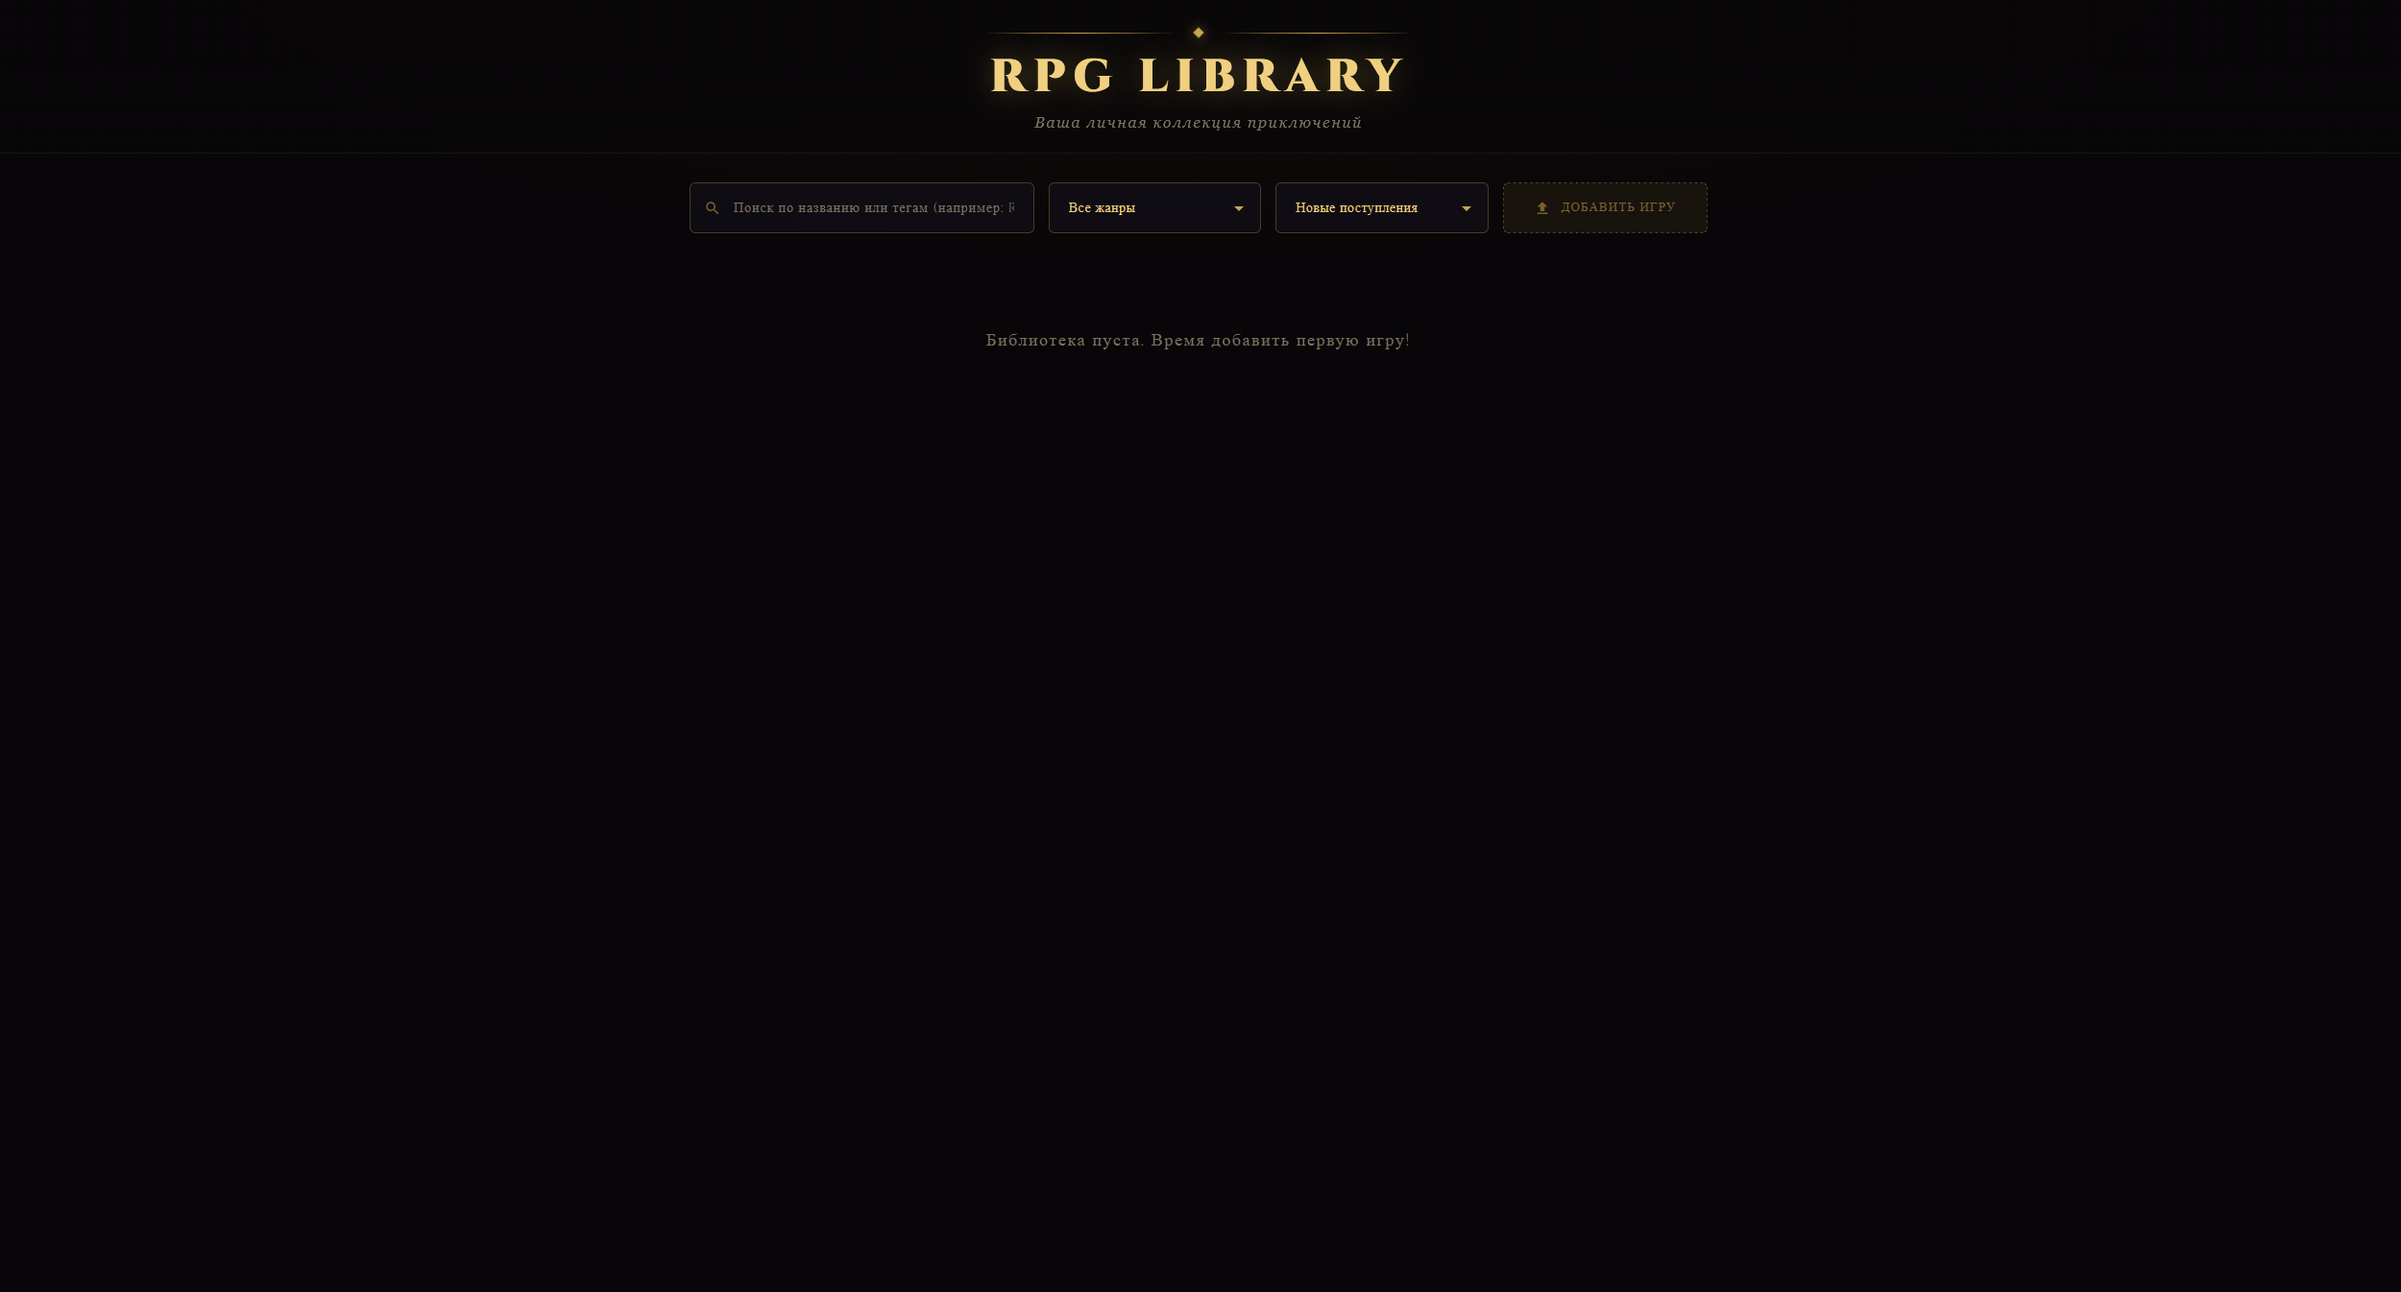
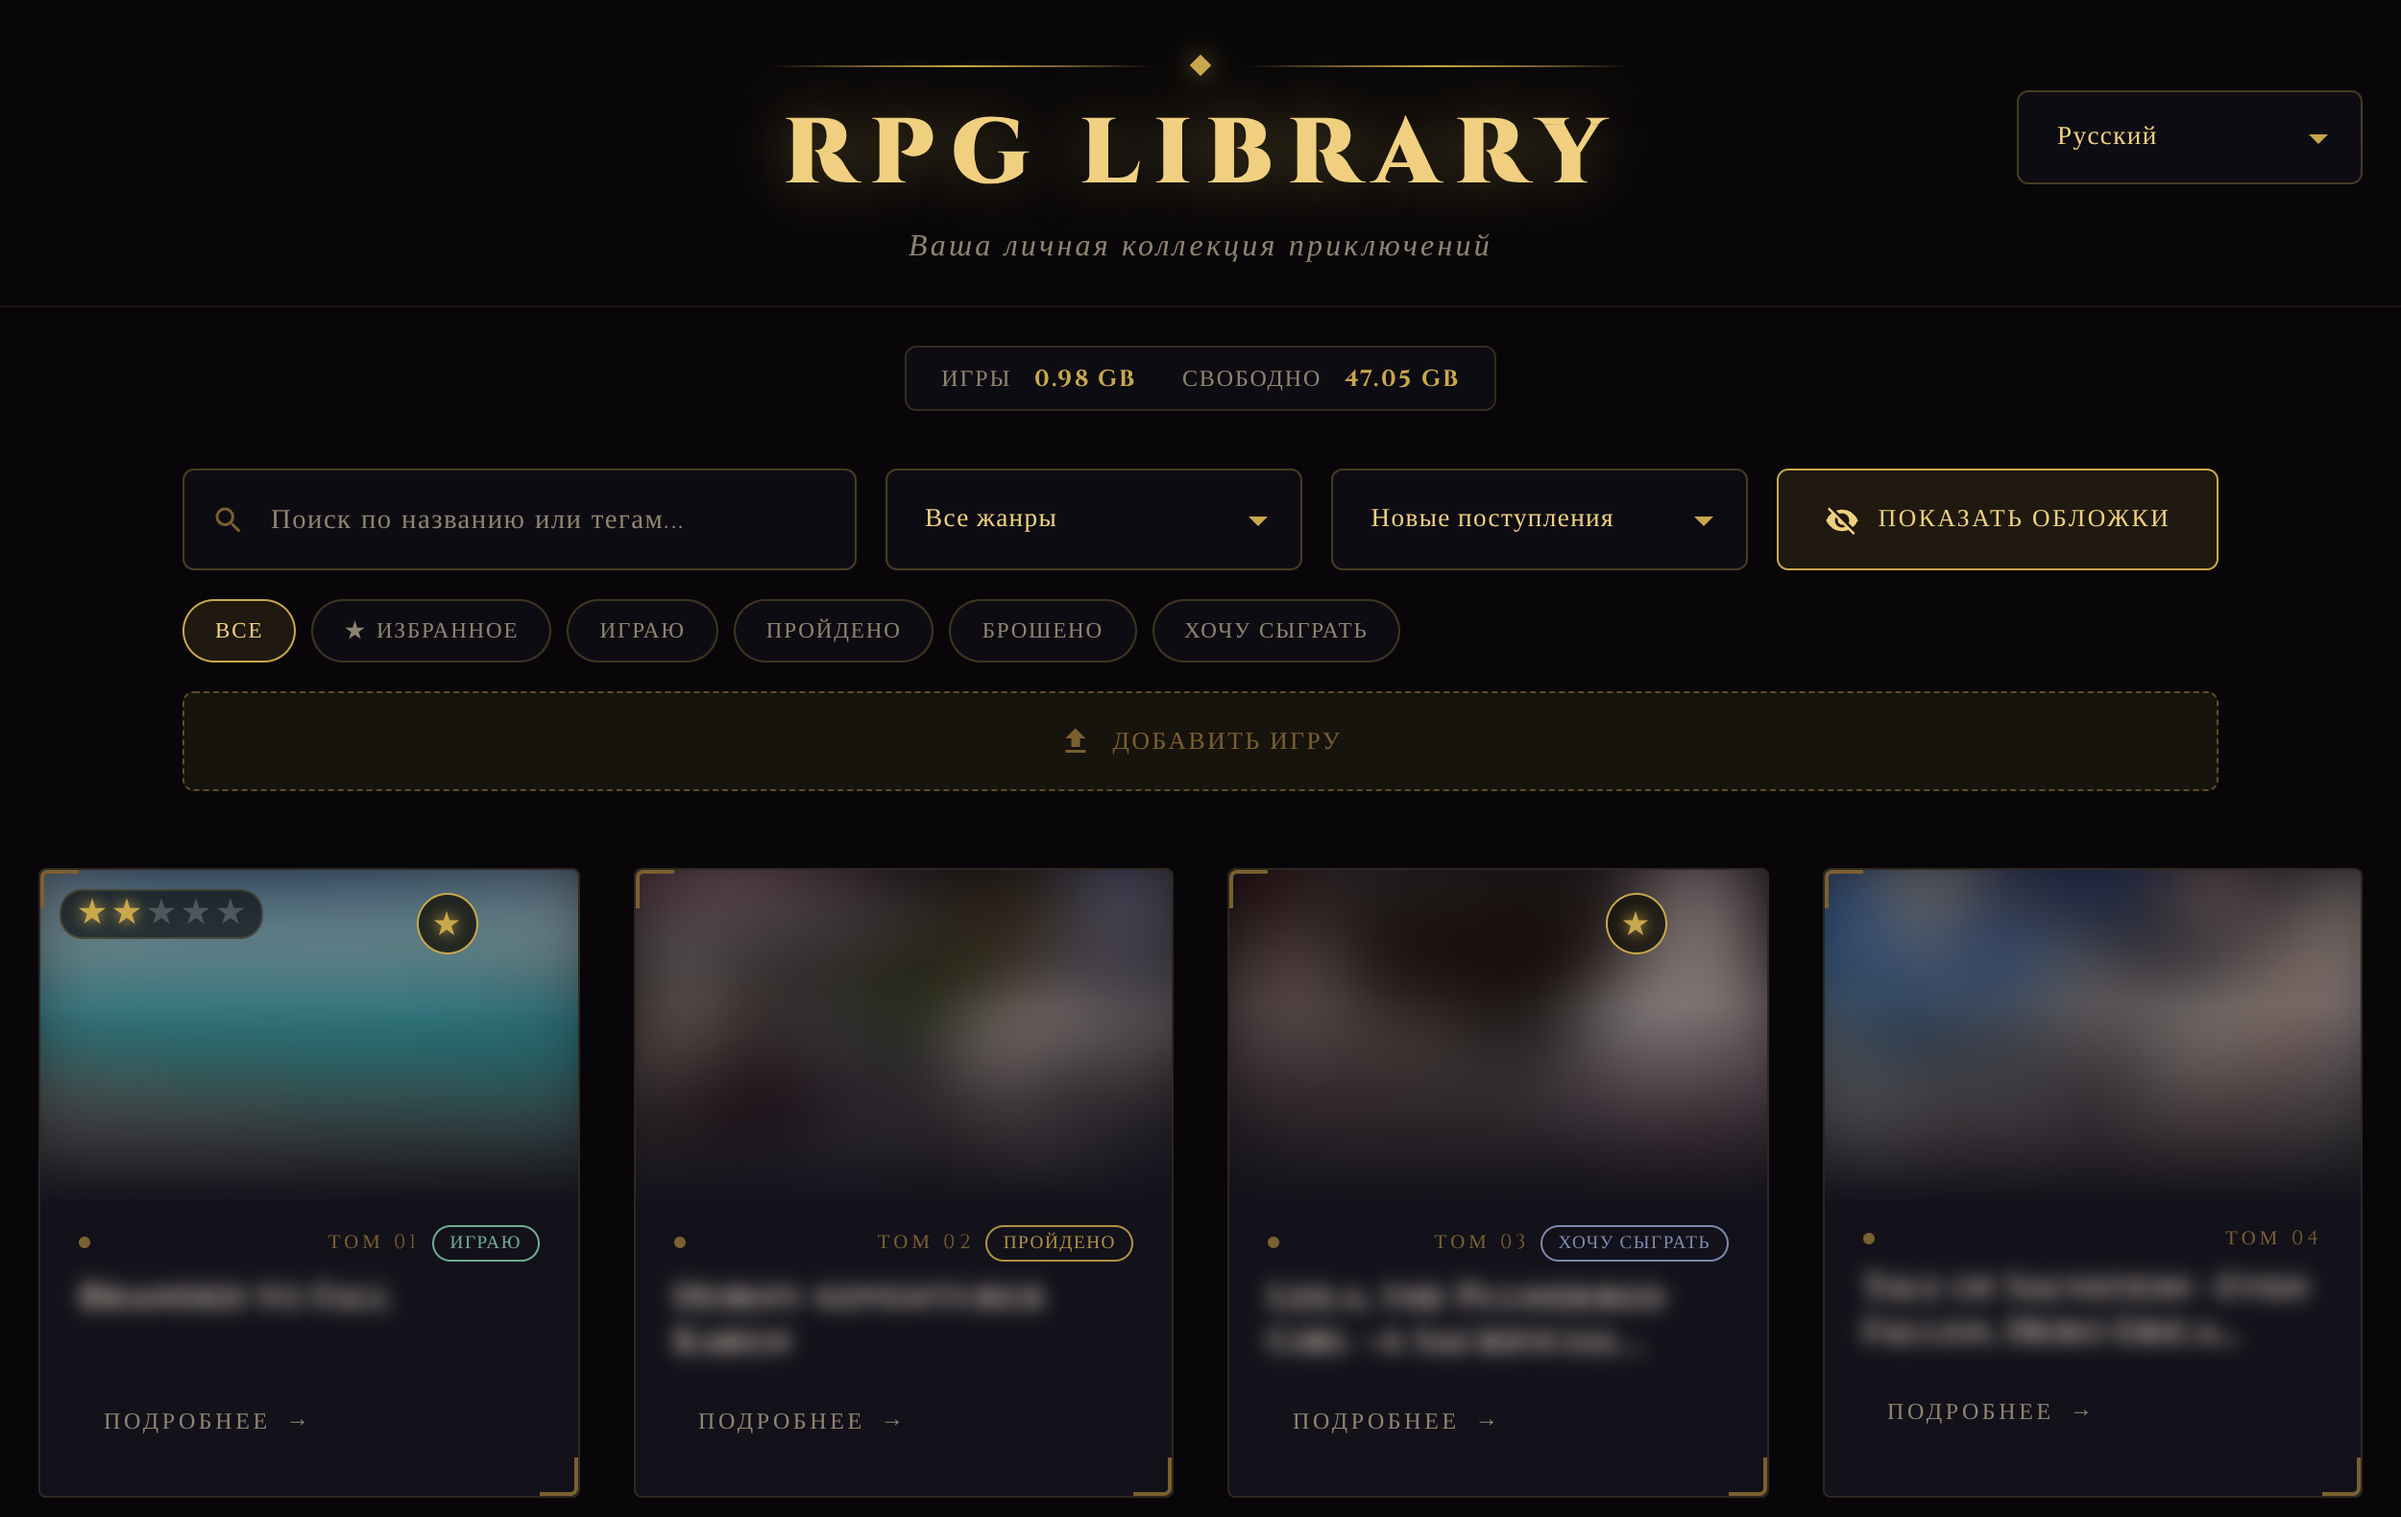
docs: свежий скриншот интерфейса для README
Старый снимок был сделан до статусов, избранного, ряда фильтров и кнопки
скрытия обложек. Новый снят на текущей сборке: обложки размыты встроенной
кнопкой, названия игр скрыты тем же приёмом. Статусы на карточках проставлены
на время съёмки и возвращены к исходным значениям.

diff --git a/README.ru.md b/README.ru.md
@@ -14,7 +14,7 @@
 
 Локальный веб-сервис для каталогизации, хранения и запуска браузерных RPG Maker игр (MV/MZ) напрямую с вашего домашнего сервера. Проект спроектирован с упором на производительность, отказоустойчивость I/O операций и умный автоматический сбор метаданных.
 
-![Скриншот интерфейса](/rest/img/Example.png)
+![Скриншот интерфейса — обложки скрыты встроенной кнопкой](/rest/img/Example.png)
 
 ## ✨ Ключевые возможности
 

diff --git a/README.de.md b/README.de.md
@@ -14,7 +14,7 @@
 
 Ein Self-Hosted Webdienst zur Katalogisierung, Speicherung und Ausführung von RPG Maker-Spielen (MV/MZ) direkt über den Browser deines Heimservers. Entwickelt mit Fokus auf hohe Leistung, I/O-Stabilität und intelligente automatische Metadatenerfassung.
 
-![App Screenshot](/rest/img/Example.png)
+![App-Screenshot — Cover mit dem eingebauten Schalter ausgeblendet](/rest/img/Example.png)
 
 ## ✨ Hauptfunktionen
 

diff --git a/README.md b/README.md
@@ -14,7 +14,7 @@
 
 A self-hosted web service designed to catalog, store, and play browser-based RPG Maker games (MV/MZ) directly from your home server. Engineered for high performance, I/O resilience, and fully automated metadata scraping.
 
-![App Screenshot](/rest/img/Example.png)
+![App Screenshot — covers hidden with the built-in toggle](/rest/img/Example.png)
 
 ## ✨ Key Features
 
